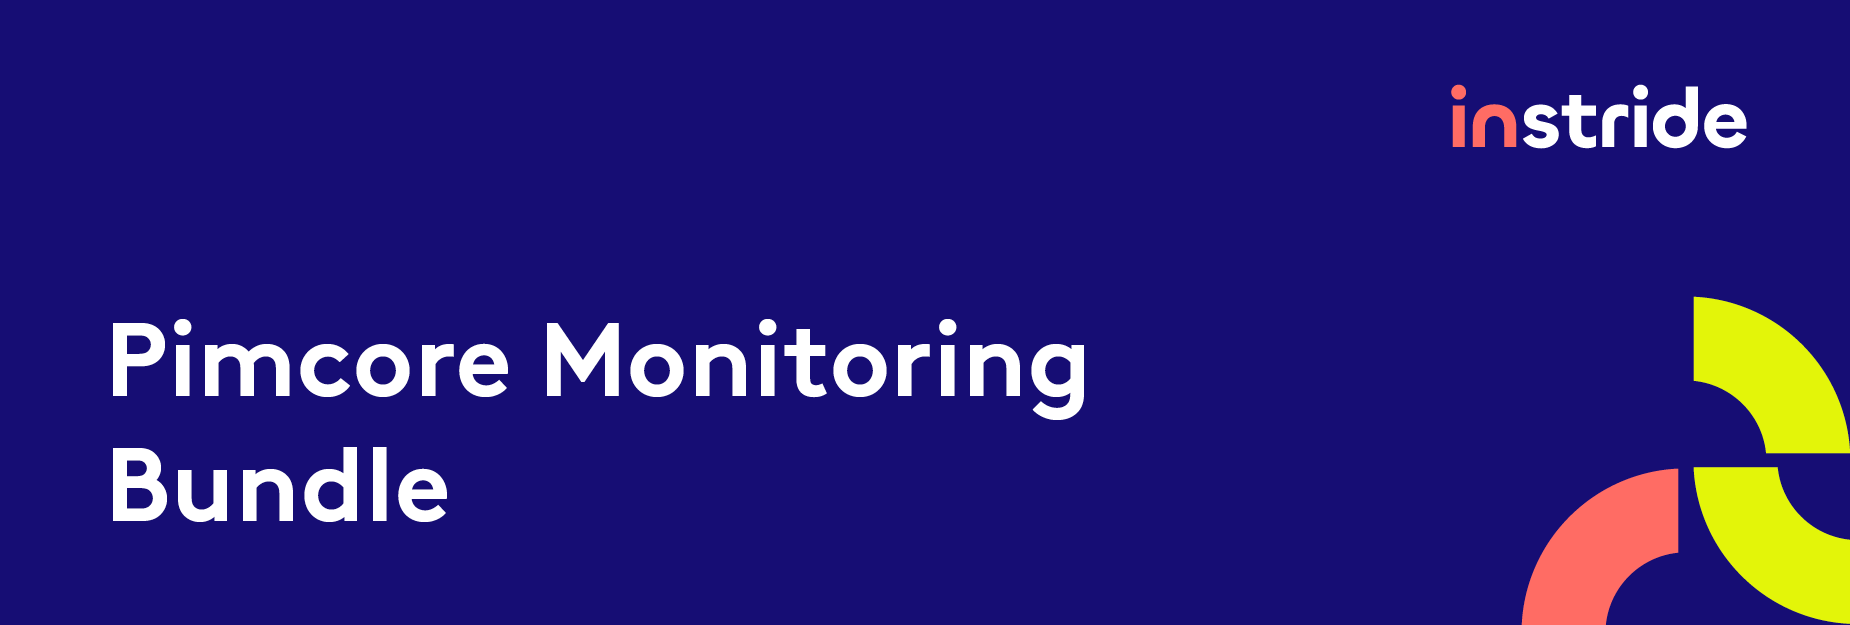
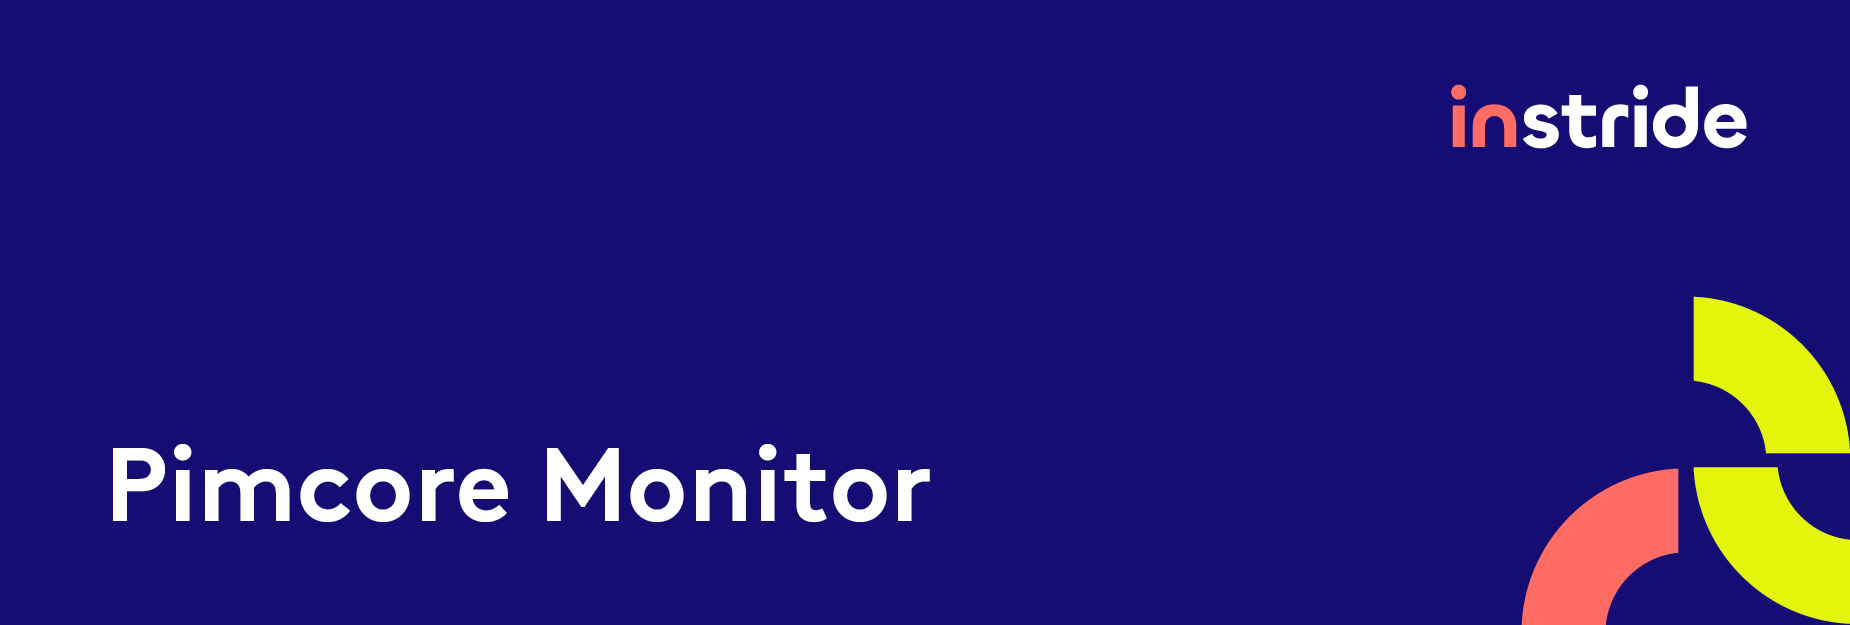
refactor: rename git repository

Changed region(s): [[0.0616, 0.6992, 0.5238, 0.8512], [0.0616, 0.5168, 0.5854, 0.6688]]

diff --git a/src/PimcoreMonitorBundle/DependencyInjection/Compiler/CheckTagCompilerPass.php b/src/PimcoreMonitorBundle/DependencyInjection/Compiler/CheckTagCompilerPass.php
@@ -12,7 +12,7 @@ declare(strict_types=1);
  * files that are distributed with this source code.
  *
  * @copyright  2024 instride AG (https://instride.ch)
- * @license    https://github.com/instride-ch/PimcoreMonitorBundle/blob/main/gpl-3.0.txt GNU General Public License version 3 (GPLv3)
+ * @license    https://github.com/instride-ch/pimcore-monitor/blob/main/gpl-3.0.txt GNU General Public License version 3 (GPLv3)
  */
 
 namespace Instride\Bundle\PimcoreMonitorBundle\DependencyInjection\Compiler;

diff --git a/src/PimcoreMonitorBundle/DependencyInjection/Configuration.php b/src/PimcoreMonitorBundle/DependencyInjection/Configuration.php
@@ -12,7 +12,7 @@ declare(strict_types=1);
  * files that are distributed with this source code.
  *
  * @copyright  2024 instride AG (https://instride.ch)
- * @license    https://github.com/instride-ch/PimcoreMonitorBundle/blob/main/gpl-3.0.txt GNU General Public License version 3 (GPLv3)
+ * @license    https://github.com/instride-ch/pimcore-monitor/blob/main/gpl-3.0.txt GNU General Public License version 3 (GPLv3)
  */
 
 namespace Instride\Bundle\PimcoreMonitorBundle\DependencyInjection;

diff --git a/src/PimcoreMonitorBundle/DependencyInjection/PimcoreMonitorExtension.php b/src/PimcoreMonitorBundle/DependencyInjection/PimcoreMonitorExtension.php
@@ -12,7 +12,7 @@ declare(strict_types=1);
  * files that are distributed with this source code.
  *
  * @copyright  2024 instride AG (https://instride.ch)
- * @license    https://github.com/instride-ch/PimcoreMonitorBundle/blob/main/gpl-3.0.txt GNU General Public License version 3 (GPLv3)
+ * @license    https://github.com/instride-ch/pimcore-monitor/blob/main/gpl-3.0.txt GNU General Public License version 3 (GPLv3)
  */
 
 namespace Instride\Bundle\PimcoreMonitorBundle\DependencyInjection;

diff --git a/src/PimcoreMonitorBundle/Controller/Admin/HealthCheckController.php b/src/PimcoreMonitorBundle/Controller/Admin/HealthCheckController.php
@@ -12,7 +12,7 @@ declare(strict_types=1);
  * files that are distributed with this source code.
  *
  * @copyright  2024 instride AG (https://instride.ch)
- * @license    https://github.com/instride-ch/PimcoreMonitorBundle/blob/main/gpl-3.0.txt GNU General Public License version 3 (GPLv3)
+ * @license    https://github.com/instride-ch/pimcore-monitor/blob/main/gpl-3.0.txt GNU General Public License version 3 (GPLv3)
  */
 
 namespace Instride\Bundle\PimcoreMonitorBundle\Controller\Admin;

diff --git a/src/PimcoreMonitorBundle/Reporter/ArrayReporter.php b/src/PimcoreMonitorBundle/Reporter/ArrayReporter.php
@@ -12,7 +12,7 @@ declare(strict_types=1);
  * files that are distributed with this source code.
  *
  * @copyright  2024 instride AG (https://instride.ch)
- * @license    https://github.com/instride-ch/PimcoreMonitorBundle/blob/main/gpl-3.0.txt GNU General Public License version 3 (GPLv3)
+ * @license    https://github.com/instride-ch/pimcore-monitor/blob/main/gpl-3.0.txt GNU General Public License version 3 (GPLv3)
  */
 
 namespace Instride\Bundle\PimcoreMonitorBundle\Reporter;

diff --git a/src/PimcoreMonitorBundle/Command/HealthCheckCommand.php b/src/PimcoreMonitorBundle/Command/HealthCheckCommand.php
@@ -12,7 +12,7 @@ declare(strict_types=1);
  * files that are distributed with this source code.
  *
  * @copyright  2024 instride AG (https://instride.ch)
- * @license    https://github.com/instride-ch/PimcoreMonitorBundle/blob/main/gpl-3.0.txt GNU General Public License version 3 (GPLv3)
+ * @license    https://github.com/instride-ch/pimcore-monitor/blob/main/gpl-3.0.txt GNU General Public License version 3 (GPLv3)
  */
 
 namespace Instride\Bundle\PimcoreMonitorBundle\Command;

diff --git a/src/PimcoreMonitorBundle/Command/HealthReportCommand.php b/src/PimcoreMonitorBundle/Command/HealthReportCommand.php
@@ -12,7 +12,7 @@ declare(strict_types=1);
  * files that are distributed with this source code.
  *
  * @copyright  2024 instride AG (https://instride.ch)
- * @license    https://github.com/instride-ch/PimcoreMonitorBundle/blob/main/gpl-3.0.txt GNU General Public License version 3 (GPLv3)
+ * @license    https://github.com/instride-ch/pimcore-monitor/blob/main/gpl-3.0.txt GNU General Public License version 3 (GPLv3)
  */
 
 namespace Instride\Bundle\PimcoreMonitorBundle\Command;

diff --git a/src/PimcoreMonitorBundle/Manager/RunnerManager.php b/src/PimcoreMonitorBundle/Manager/RunnerManager.php
@@ -12,7 +12,7 @@ declare(strict_types=1);
  * files that are distributed with this source code.
  *
  * @copyright  2024 instride AG (https://instride.ch)
- * @license    https://github.com/instride-ch/PimcoreMonitorBundle/blob/main/gpl-3.0.txt GNU General Public License version 3 (GPLv3)
+ * @license    https://github.com/instride-ch/pimcore-monitor/blob/main/gpl-3.0.txt GNU General Public License version 3 (GPLv3)
  */
 
 namespace Instride\Bundle\PimcoreMonitorBundle\Manager;

diff --git a/src/PimcoreMonitorBundle/Check/AbstractCheck.php b/src/PimcoreMonitorBundle/Check/AbstractCheck.php
@@ -12,7 +12,7 @@ declare(strict_types=1);
  * files that are distributed with this source code.
  *
  * @copyright  2024 instride AG (https://instride.ch)
- * @license    https://github.com/instride-ch/PimcoreMonitorBundle/blob/main/gpl-3.0.txt GNU General Public License version 3 (GPLv3)
+ * @license    https://github.com/instride-ch/pimcore-monitor/blob/main/gpl-3.0.txt GNU General Public License version 3 (GPLv3)
  */
 
 namespace Instride\Bundle\PimcoreMonitorBundle\Check;

diff --git a/src/PimcoreMonitorBundle/Check/AppEnvironment.php b/src/PimcoreMonitorBundle/Check/AppEnvironment.php
@@ -12,7 +12,7 @@ declare(strict_types=1);
  * files that are distributed with this source code.
  *
  * @copyright  2024 instride AG (https://instride.ch)
- * @license    https://github.com/instride-ch/PimcoreMonitorBundle/blob/main/gpl-3.0.txt GNU General Public License version 3 (GPLv3)
+ * @license    https://github.com/instride-ch/pimcore-monitor/blob/main/gpl-3.0.txt GNU General Public License version 3 (GPLv3)
  */
 
 namespace Instride\Bundle\PimcoreMonitorBundle\Check;

diff --git a/src/PimcoreMonitorBundle/Check/CheckInterface.php b/src/PimcoreMonitorBundle/Check/CheckInterface.php
@@ -12,7 +12,7 @@ declare(strict_types=1);
  * files that are distributed with this source code.
  *
  * @copyright  2024 instride AG (https://instride.ch)
- * @license    https://github.com/instride-ch/PimcoreMonitorBundle/blob/main/gpl-3.0.txt GNU General Public License version 3 (GPLv3)
+ * @license    https://github.com/instride-ch/pimcore-monitor/blob/main/gpl-3.0.txt GNU General Public License version 3 (GPLv3)
  */
 
 namespace Instride\Bundle\PimcoreMonitorBundle\Check;

diff --git a/src/PimcoreMonitorBundle/Check/DatabaseSize.php b/src/PimcoreMonitorBundle/Check/DatabaseSize.php
@@ -12,7 +12,7 @@ declare(strict_types=1);
  * files that are distributed with this source code.
  *
  * @copyright  2024 instride AG (https://instride.ch)
- * @license    https://github.com/instride-ch/PimcoreMonitorBundle/blob/main/gpl-3.0.txt GNU General Public License version 3 (GPLv3)
+ * @license    https://github.com/instride-ch/pimcore-monitor/blob/main/gpl-3.0.txt GNU General Public License version 3 (GPLv3)
  */
 
 namespace Instride\Bundle\PimcoreMonitorBundle\Check;
